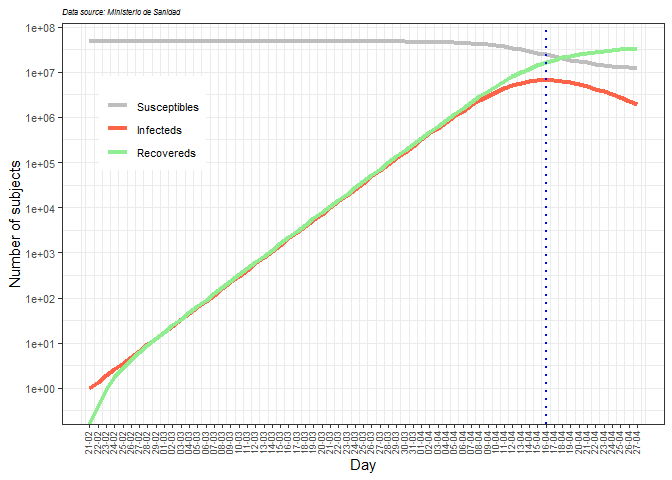
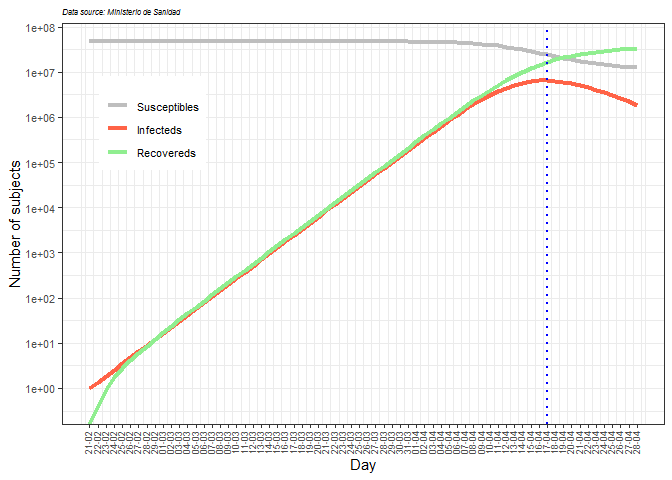
update

diff --git a/README.md b/README.md
@@ -32,14 +32,14 @@ Estimates with the SIR model:
 
 ![](README_files/figure-gfm/SIR%20plots-1.png)<!-- -->![](README_files/figure-gfm/SIR%20plots-2.png)<!-- -->
 
-According to this model, the rate of infection is 1.93, the height of
-the pandemic will be reached by 16/04/2020.
+According to this model, the rate of infection is 1.91, the height of
+the pandemic will be reached by 17/04/2020.
 
-About 6645669 people would be infected by then, which translates to
-about 1229449 severe cases, about 332283 cases in need of intensive care
-and up to 93039 deaths.
+About 6450049 people would be infected by then, which translates to
+about 1193259 severe cases, about 322502 cases in need of intensive care
+and up to 90301 deaths.
 
-#### Infected forecast for tomorrow: 90661 (2020-03-29)
+#### Infected forecast for tomorrow: 102000 (2020-03-30)
 
 Previous predictions:
 
@@ -51,6 +51,7 @@ Previous predictions:
     26-03 -> predicted = 57420; observed = 56188; error =  2.1%
     27-03 -> predicted = 67868; observed = 64059; error =  5.6%
     28-03 -> predicted = 78955; observed = 72248; error =  8.5%
+    29-03 -> predicted = 90661; observed = 78797; error = 13.1%
 
 ## REGRESSION MODEL
 
@@ -63,9 +64,9 @@ very close to 1.
 
 ![](README_files/figure-gfm/regresion-1.png)<!-- -->
 
-##### Infected forecast for tomorrow (2020-03-29): 79588, with 95% prediction interval: (76832 , 82345)
+##### Infected forecast for tomorrow (2020-03-30): 88856, with 95% prediction interval: (86144 , 91568)
 
-##### Deaths forecast for tomorrow (2020-03-29): 6199, with 95% prediction interval: (5812 , 6586)
+##### Deaths forecast for tomorrow (2020-03-30): 7196, with 95% prediction interval: (6800 , 7591)
 
 Previous predictions:
 
@@ -76,6 +77,7 @@ Previous predictions:
     26-03 -> predicted = 51614; observed = 56188; error = -8.9%
     27-03 -> predicted = 60476; observed = 64059; error = -5.9%
     28-03 -> predicted = 69832; observed = 72248; error = -3.5%
+    29-03 -> predicted = 79588; observed = 78797; error =  1.0%
 
     Deaths forecast:
 
@@ -84,6 +86,7 @@ Previous predictions:
     26-03 -> predicted = 3930; observed = 4089; error = -4.0%
     27-03 -> predicted = 4563; observed = 4858; error = -6.5%
     28-03 -> predicted = 5256; observed = 5690; error = -8.3%
+    29-03 -> predicted = 6199; observed = 6528; error = -5.3%
 
 -----
 
